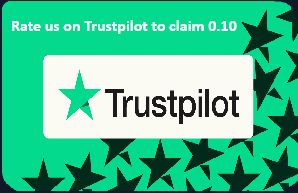
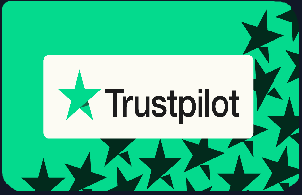
adjust earn background position above offers

Changed region(s): [[0.0, 0.0, 1.0, 0.9948], [0.7248, 0.7772, 0.755, 0.8083]]

diff --git a/index.js b/index.js
@@ -2045,23 +2045,29 @@ app.get('/', async (req, res) => {
       overflow:hidden;
     }
 
-    /* TRUSTPILOT HERO */
-    .trustpilot-mission{
+    /* HERO PROMOS */
+    .hero-promos{
       position:absolute;
       top:28px;
       left:24px;
+      display:flex;
+      gap:24px;
       z-index:10;
+    }
+
+    .hero-promos a{
+      display:block;
       border-radius:24px;
       overflow:hidden;
       box-shadow:0 20px 50px rgba(0,0,0,.35);
       transition:transform .2s ease;
     }
 
-    .trustpilot-mission:hover{
+    .hero-promos a:hover{
       transform:translateY(-3px);
     }
 
-    .trustpilot-mission img{
+    .hero-promos img{
       width:340px;
       display:block;
       border-radius:24px;
@@ -2202,10 +2208,16 @@ app.get('/', async (req, res) => {
 
   </style>
 
-  <div class="trustpilot-mission">
-    <a href="https://www.trustpilot.com/review/surveycash.website" target="_blank" rel="noopener noreferrer">
-      <img src="/img/trustpilot-mission.png" alt="Rate SurveyCash on Trustpilot">
+  <div class="hero-promos">
+
+    <a href="https://www.trustpilot.com/review/surveycash.website" target="_blank">
+      <img src="/img/trustpilot-mission.png" alt="Trustpilot">
     </a>
+
+    <a href="https://www.tiktok.com/@surveycash" target="_blank">
+      <img src="/img/tiktok-follow.png" alt="TikTok">
+    </a>
+
   </div>
 
   <div class="earn-area">
